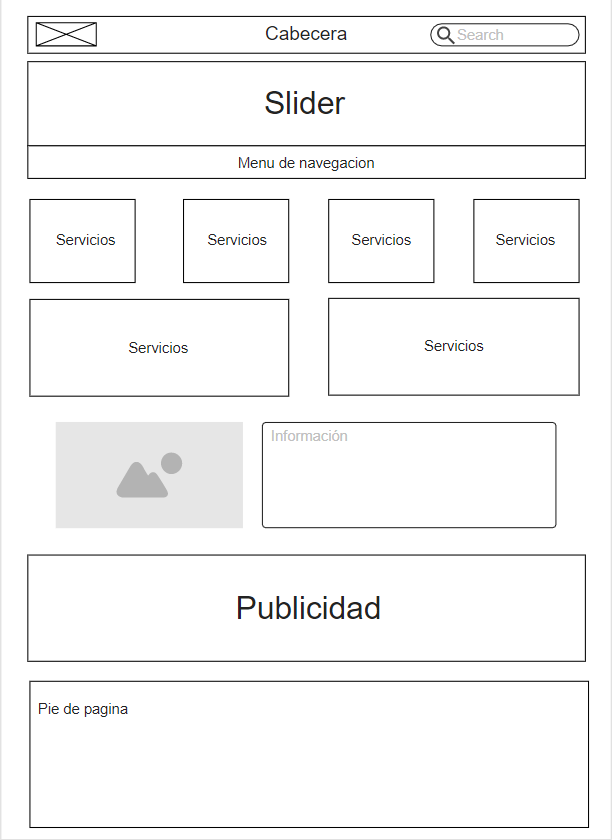
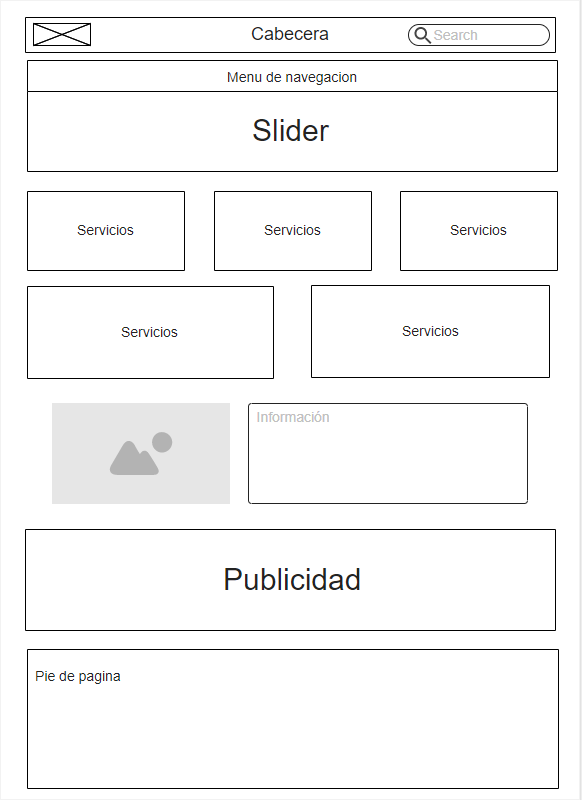
pag web - 2do avance

diff --git a/css/estilos.css b/css/estilos.css
@@ -6,22 +6,22 @@
 
 body{
 
-    background-color: rgb(167, 170, 162);
+    background-color: rgb(121, 118, 118);
     font-family: Verdana, 'Times New Roman', Times, serif, Tahoma, sans-serif;
 }
 
 header.cabeceraPrincipal{
-    background-color: rgb(167, 105, 175);
+    width: 90%; 
+    background-color: rgb(167, 64, 64);
     color: #ffffff;
-    width: 60%;
     margin: 0 auto;
-    
-
 }
+
 header.cabeceraPrincipal img{
-    width: 30%;
+    max-width: 100%;
     display: inline-block;
-    scroll-padding-left: 1em;
+    padding: 1em 1em;
+    vertical-align: top;
 }
 header.cabeceraPrincipal h1{
     font-size: 2em;
@@ -30,42 +30,179 @@ header.cabeceraPrincipal h1{
     display: inline-block;
     text-shadow: rgb(0, 0, 0) 3px 3px 3px;
 }
-section.sliderprincipal{
-    
-    background-color:  rgb(55, 170, 199);
-    font-size: 3em;
-    padding: 2em;
-}
-nav{
+
+main{
+    width: 90%;
     margin: 0 auto;
-    width: 100%;
+    background-color: rgb(224, 218, 218);
+}
+main section.contenedor{
+    padding: 1em;
+}
+
+nav.menuprincipal{
+    width: 90%;
+    margin: 0 auto;
+    background-color: rgb(32, 30, 30);
+    text-align: center;
+    padding: 1em 0;
 }
 nav a{
+    font-size: 1.5em;
+    color: #ffffff;
+    padding: 0.6em 3em;
+    text-decoration: none;
+}
+nav.menuprincipal a:hover{
+    background-color: #ffffff;
+    color: rgb(32, 30, 30);
+}
+
+section.sliderprincipal{
+    background-color:   rgba(97, 94, 94, 0);
+    color: #ffffff;
     font-size: 2em;
-    padding: 3em;
-    width: 80%;
-    text-shadow: rgb(0, 0, 0) 2px 2px 1px;
-}
-section#servicios{
-    background-color:  rgb(55, 170, 199);
+    padding: 1em 1em;
+    width: 100%;
     margin: 0 auto;
-    width: 80%;
 }
-section#informacion{
-    background-color: rgba(28, 150, 180, 0);
+section.servicios, section.servicios1{
+    background-color: rgb(167, 64, 64);
     margin: 0 auto;
+    width: 90%;
+    text-align: center;
+}
+.servicios article.tema, .servicios1 article.tema{
+    width: 30%;
+    display: inline-block;
+}
+.servicios article.tema h3, .servicios1 article.tema h3{
     font-size: 2em;
-    padding: 5em;
+    color: #ffffff;
+    padding: 1em 0 0 0;
+    text-shadow: rgb(0, 0, 0) 3px 3px 3px;
 }
+.servicios article.tema p, .servicios1 article.tema p{
+    text-align: justify;
+    padding: 1em 2em;
+    color: rgb(0, 0, 0);
+    font-size: 1em;
+}
+
+
+section.informacion{
+    background-color: rgb(0, 0, 0);
+    margin: 0 auto;
+    width: 90%;
+    text-align: center;
+    
+}
+section.informacion img{
+
+}
+section.informacion h3{
+    display: inline-block;
+    color: #ffffff;
+    font-size: 2em;
+    width: 30%;
+
+}
+
 aside{
-    background-color: rgb(55, 170, 199);
-    font-size: 3em;
-    padding: 2em;
-    width: 80%;
-    margin: 0 auto;
-}
-footer.final{
+    background-color: rgb(57, 131, 150);
     font-size: 2em;
-    padding: 5em;
-    background-color: rgb(167, 105, 175);
+    width: 90%;
+    margin: 0 auto;
+    padding: 5em 0;
+     
+}
+footer.piepagina{
+    width: 100%;
+    font-size: 1em;
+    padding: 5em 0;
+    background-color: rgb(32, 30, 30);
+    color: #ffffff;
+}
+
+
+@media only screen and(max-width: 750px){
+    body{
+        background-color: #ffffff;
+    }
+
+    header.cabeceraPrincipal{
+        width: 100%; 
+        margin: 0 auto;
+    }
+    
+    header.cabeceraPrincipal img{
+        max-width: 100%;
+        display: inline-block;
+        padding: 0.5em 0.5em;
+        vertical-align: top;
+    }
+    header.cabeceraPrincipal h1{
+        font-size: 1em;
+        padding: 1em;
+        width: 60%;
+        display: inline-block;
+        text-shadow: rgb(0, 0, 0) 3px 3px 3px;
+    }
+
+    nav.menuprincipal{
+        width: 100%;
+        margin: 0 auto;
+        background-color: rgb(32, 30, 30);
+        text-align: center;
+        padding: 1em 0;
+    }
+    nav a{
+        font-size: 1em;
+        color: #ffffff;
+        padding: 0.5em 0.5em;
+        text-decoration: none;
+    }
+    nav.menuprincipal a:hover{
+        background-color: #ffffff;
+        color: rgb(32, 30, 30);
+    }
+}
+
+@media only screen and(max-width: 550px){
+    body{
+        background-color: #ffffff;
+    }
+
+    header.cabeceraPrincipal{
+        width: 100%; 
+        margin: 0 auto;
+        text-align: center;
+    }
+    
+    header.cabeceraPrincipal img{
+        max-width: 100%;
+        display: block;
+        padding: 0.5em 0.5em;
+    }
+    header.cabeceraPrincipal h1{
+        font-size: 1em;
+        padding: 1em;
+        width: 100%;
+        display: block;
+        text-shadow: rgb(0, 0, 0) 3px 3px 3px;
+    }
+
+    nav.menuprincipal{
+        width: 100px;
+    }
+    nav a{
+        padding: 6px 30px;
+        display: block;
+        background-color:  rgb(32, 30, 30);
+    }
+    .servicios article.tema, .servicios1 article.tema{
+        width: 90%;
+        display: block;
+        margin: 0 auto;
+    } 
 }

diff --git a/internas/contenidos.html b/internas/contenidos.html
@@ -4,26 +4,28 @@
         <meta charset="UTF-8">
         <meta name="viewport" content="width=device-width, initial-scale=1.0">
         <title>Ing. Web</title>
-        <link rel="stylesheet" href="css/estilos.css">
+        <link rel="stylesheet" href="../css/estilos.css">
     </head>
 
     <body>
         <header class="cabeceraPrincipal">
-            <img class="imagen" src="images/logo.png" alt="Logotipo de la Pagina">
+            <img class="imagen" src="../images/logo.png" alt="Logotipo de la Pagina">
             <h1>Ingeneria Web</h1>
         </header>
 
         <nav class="menuprincipal">
-            <a href="index.html">Inicio</a>
-            <a href="internas/contenidos.html">Contenidos</a>
+            <a href="../index.html">Inicio</a>
+            <a href="contenidos.html">Contenidos</a>
             <a href="">Menu</a>
             <a href="">Menu</a>
             <a href="">Menu</a>
         </nav>
 
-        <section class="sliderprincipal">
-            Slider Principal
-        </section>
+        <main>
+            <section class="contenedor">
+                <h2>Contenidos de los Temas</h2>
+            </section>
+        </main>
 
         <section class="servicios">
             <article class="tema">
@@ -61,16 +63,7 @@
                 </p>
             </article>
         </section>
-
-        <section class="informacion">
-            <img src="images/logo.png" alt="Informacion sobre la pagina">
-            <h3>Ingeneria de Software</h3>
-        </section>
-
-        <aside>
-            PUBLICIDAD
-        </aside>
-    
+        
         <footer class="piepagina">
             <h6>Derechos Reservados UTPL 2020 by: @drmorales4</h6>
         </footer>
